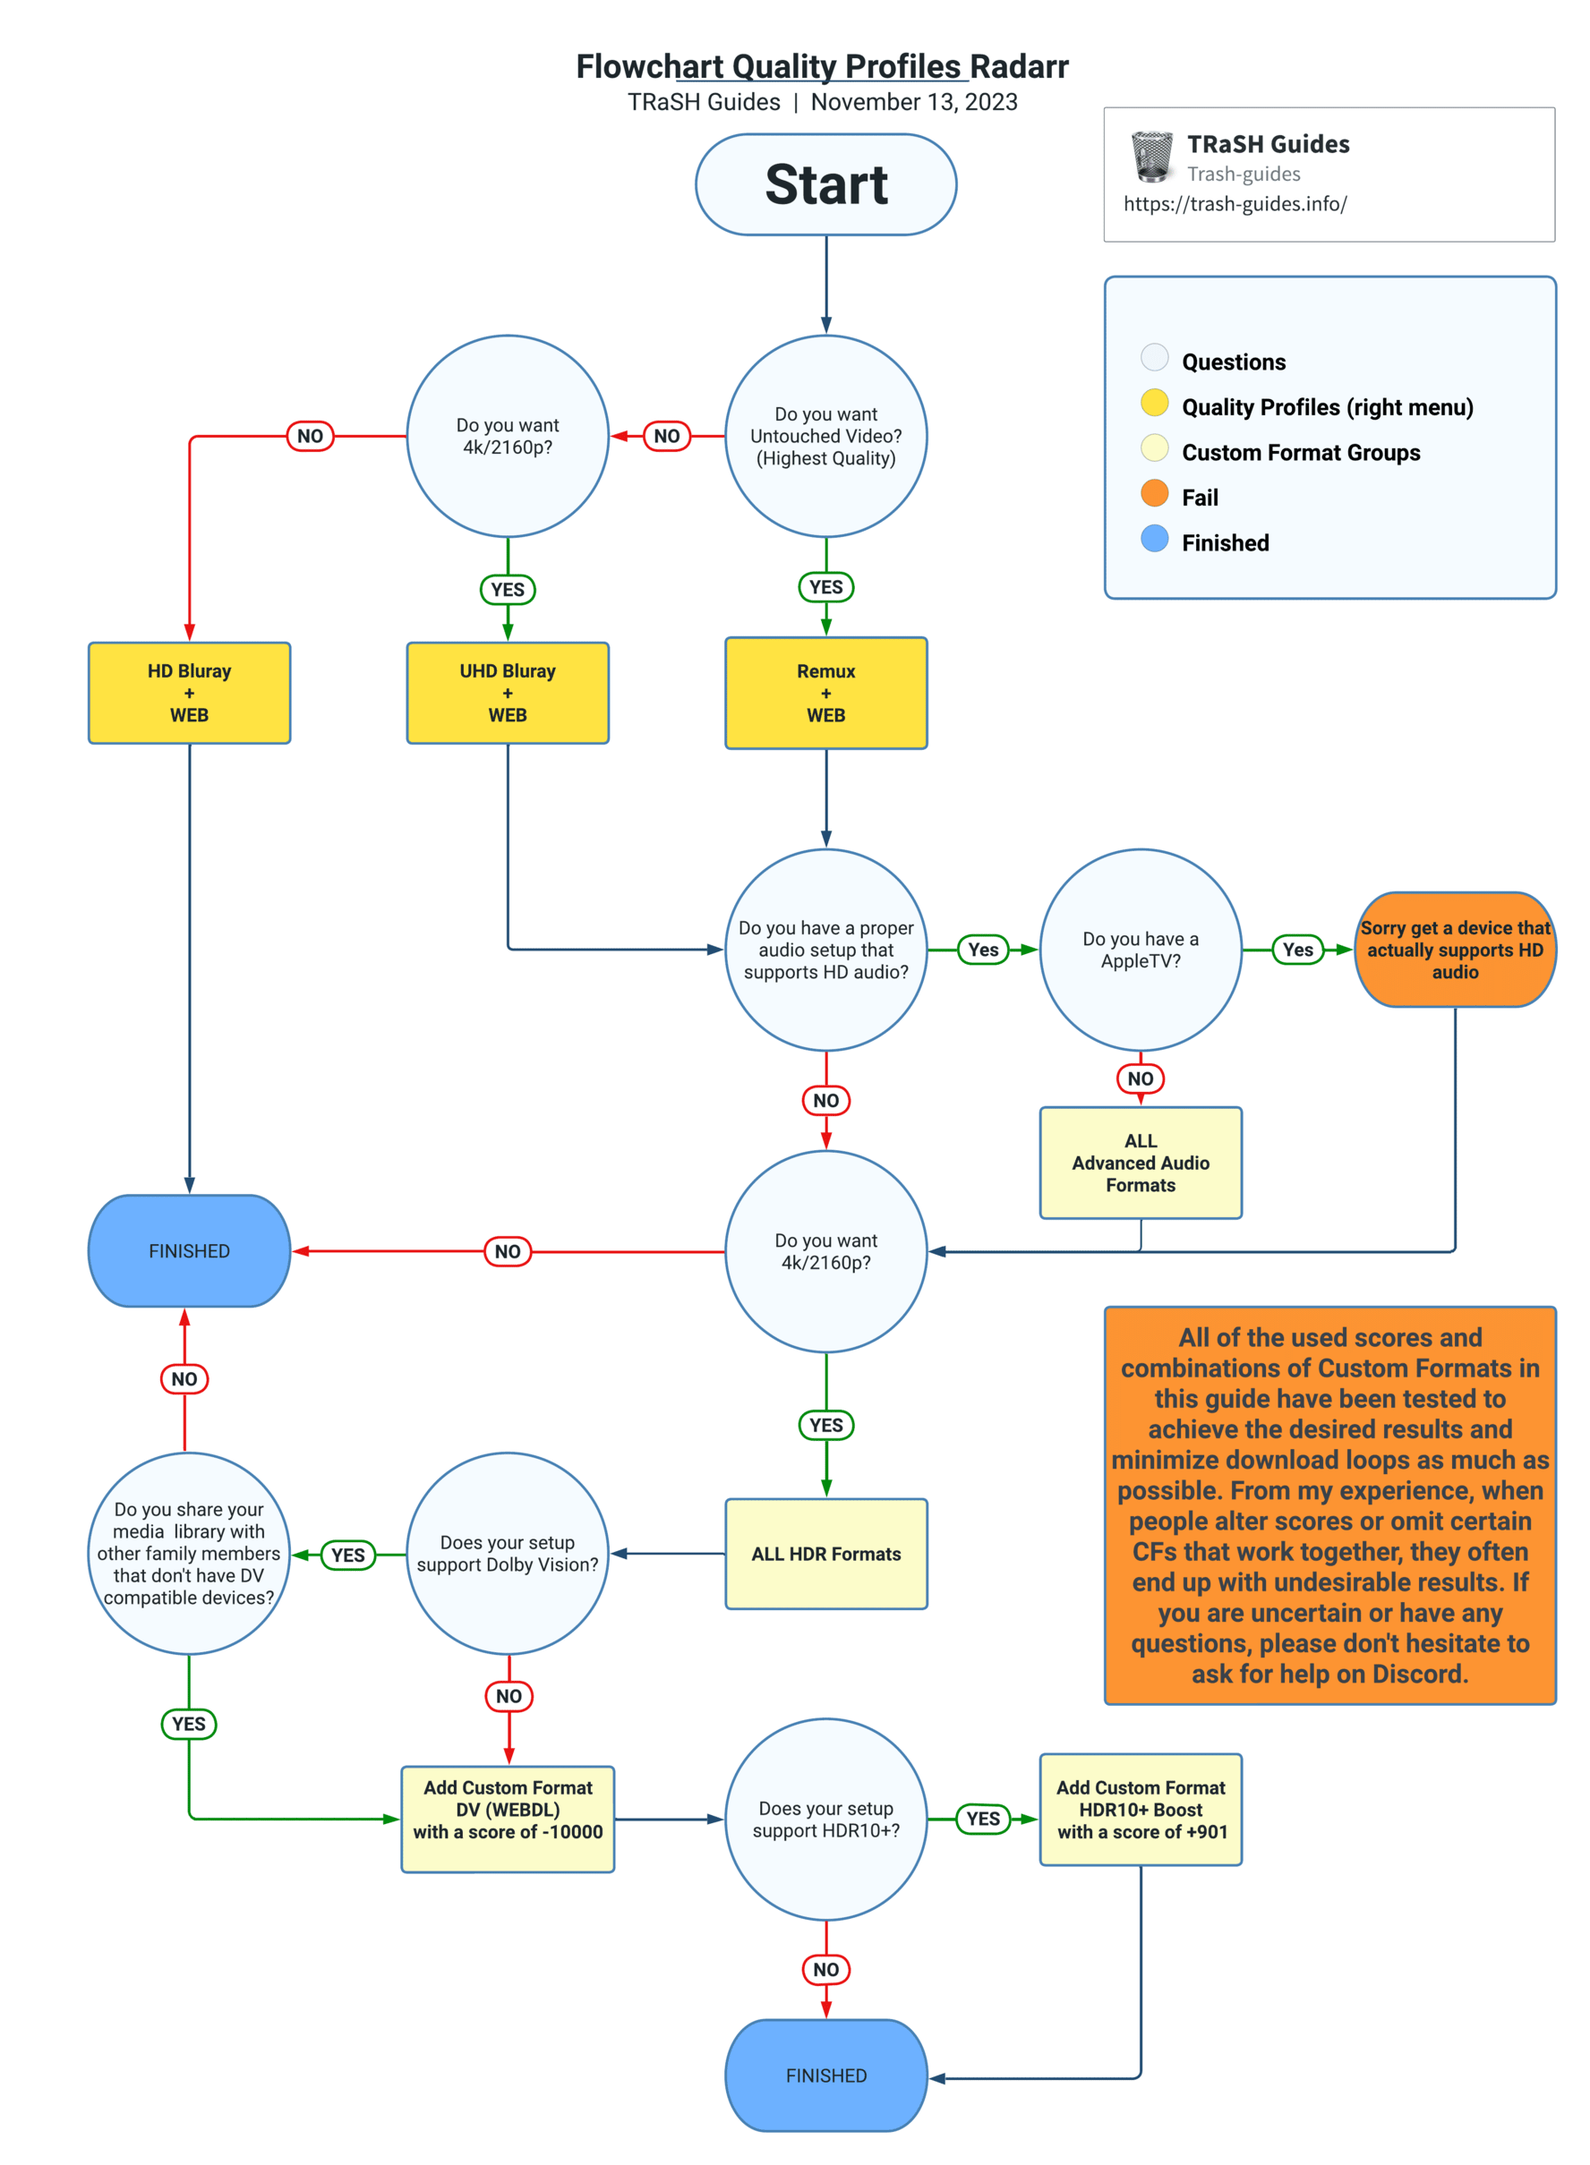
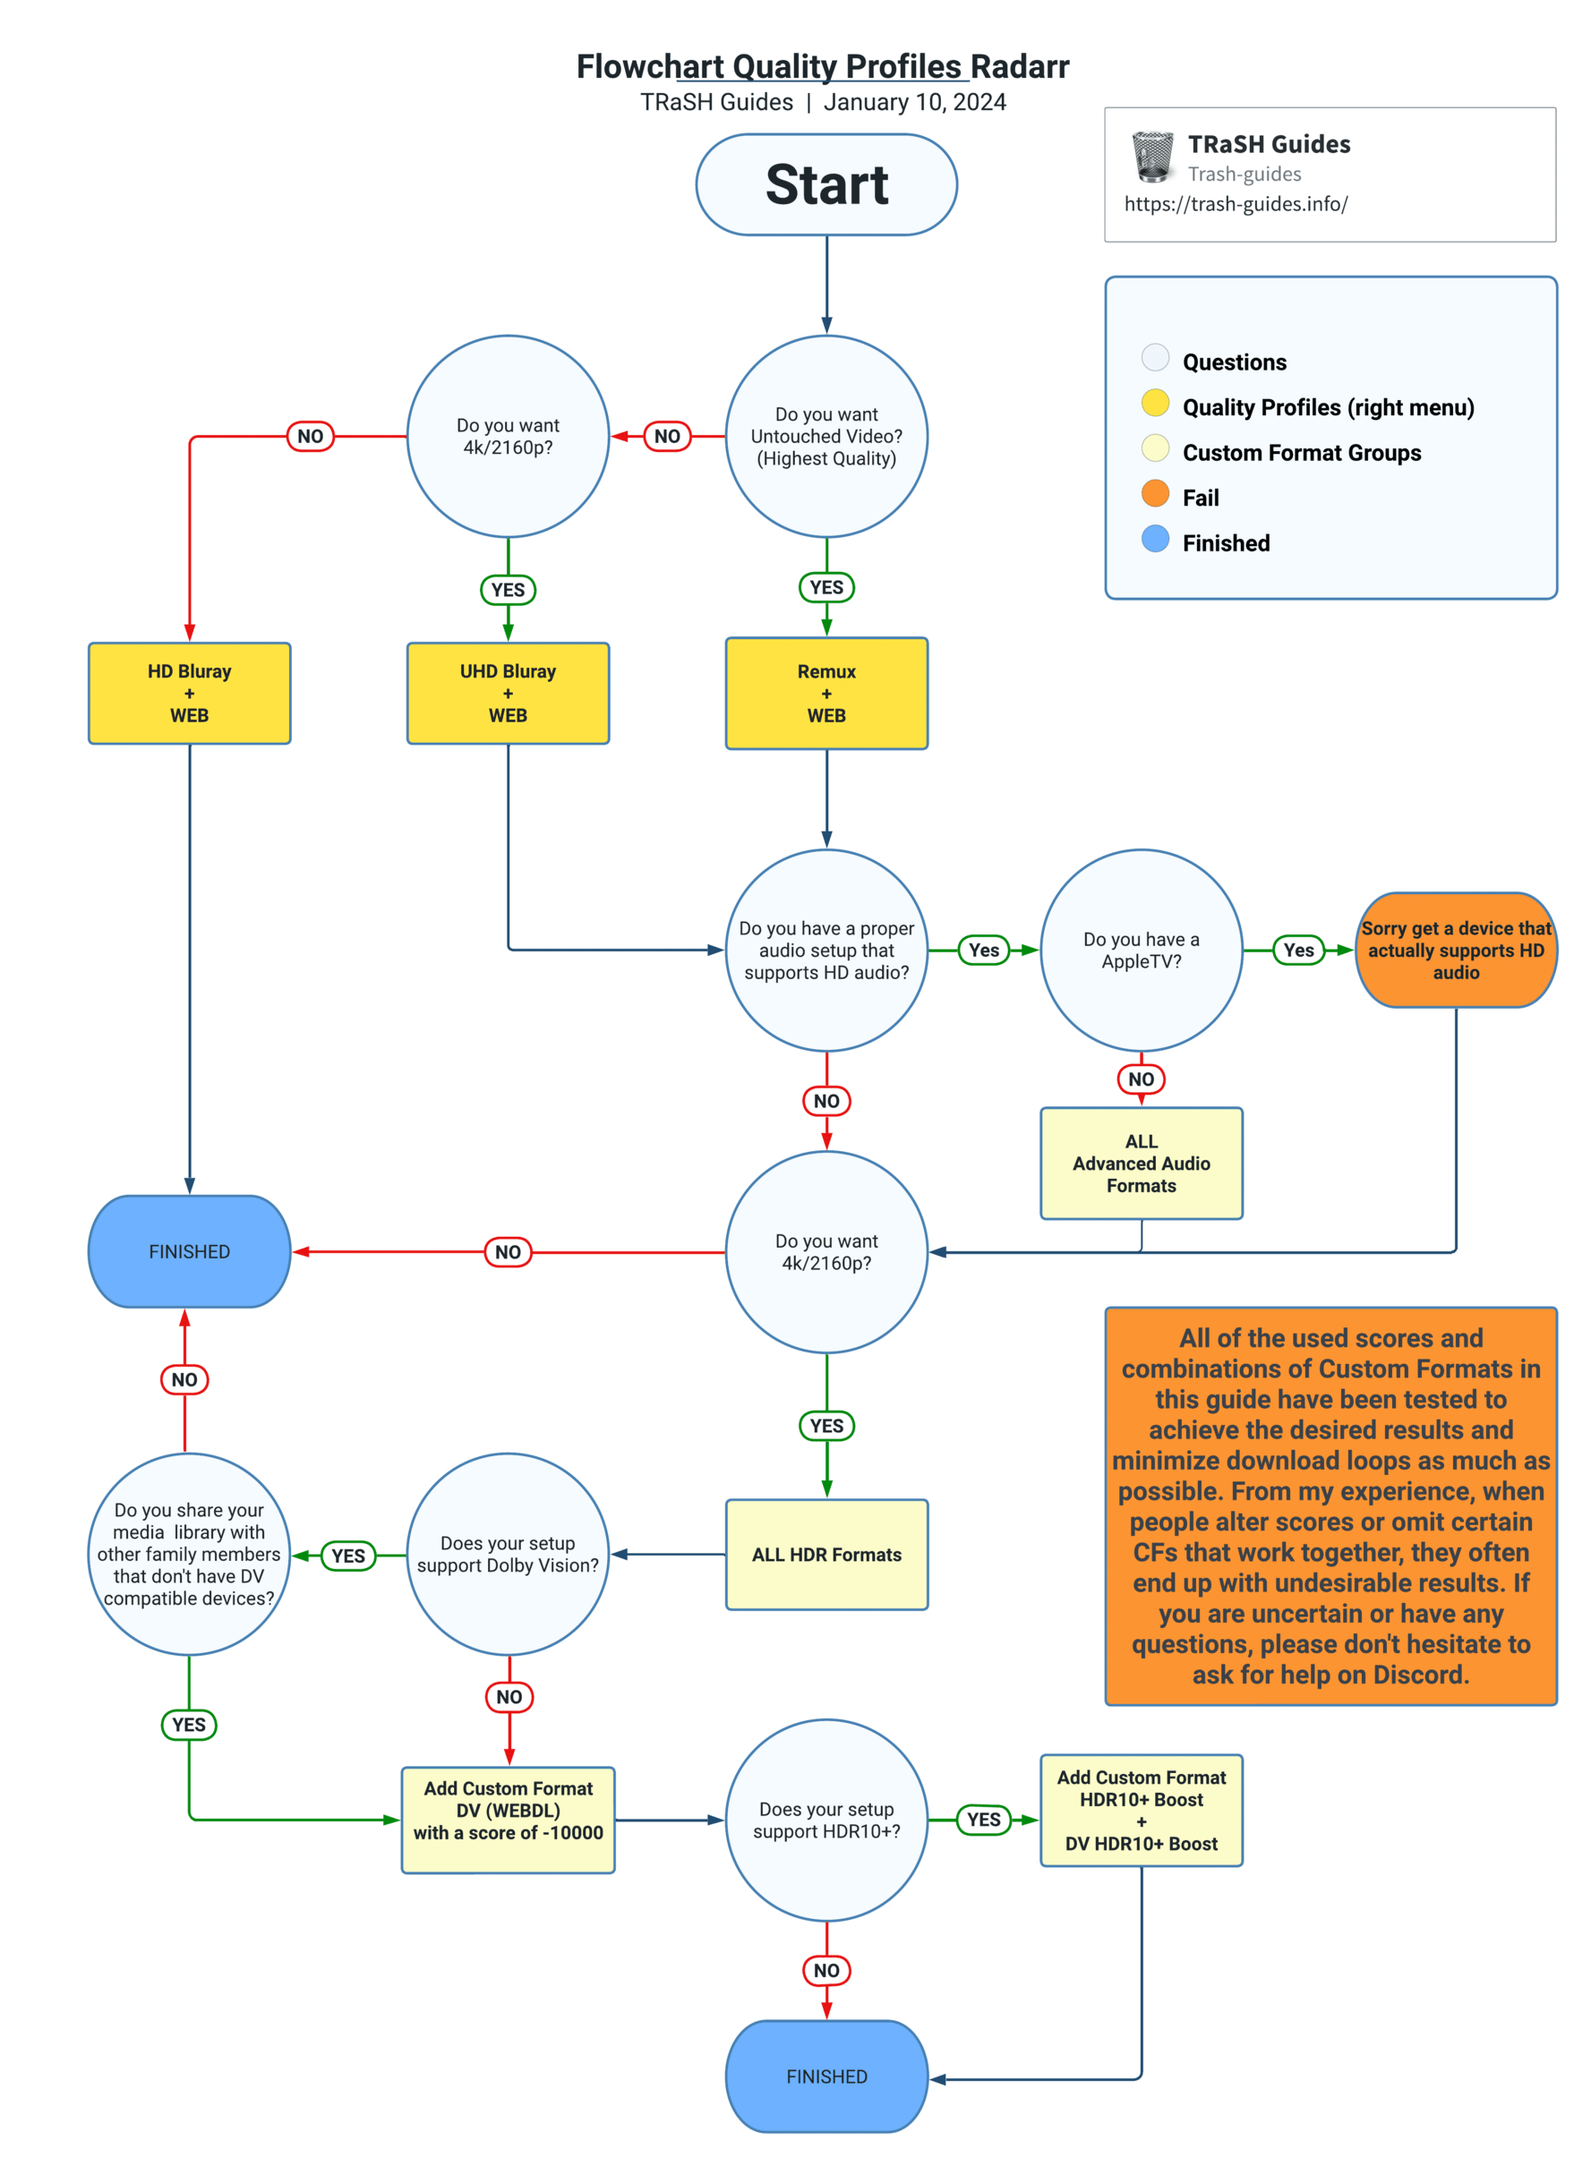
feat(starr): add DV HDR10Plus Boost CF (#1744)

diff --git a/docs/Radarr/Radarr-collection-of-custom-formats.md b/docs/Radarr/Radarr-collection-of-custom-formats.md
@@ -74,25 +74,26 @@ I also made 3 guides related to this one.
 
 ------
 
-| Misc                           | Optional                            | French Audio Version          | French Source Groups                            |
-| ------------------------------ | ----------------------------------- | ----------------------------- | ----------------------------------------------- |
-| [Dutch Groups](#dutch-groups)  | [AV1](#av1)                         | [Multi-French](#multi-french) | [FR Remux Tier 01](#fr-remux-tier-01)           |
-| [FreeLeech](#freeleech)        | [Bad Dual Groups](#bad-dual-groups) | [Multi-Audio](#multi-audio)   | [FR Remux Tier 02](#fr-remux-tier-02)           |
-| [MPEG2](#mpeg2)                | [DV (Disk)](#dv-disk)               | [French Audio](#french-audio) | [FR UHD Bluray Tier 01](#fr-uhd-bluray-tier-01) |
-| [Multi](#multi)                | [DV (WEBDL)](#dv-webdl)             | [VFF](#vff)                   | [FR UHD Bluray Tier 02](#fr-uhd-bluray-tier-02) |
-| [Repack/Proper](#repackproper) | [EVO (no WEBDL)](#evo-no-webdl)     | [VOF](#vof)                   | [FR HD Bluray Tier 01](#fr-hd-bluray-tier-01)   |
-| [Repack2](#repack2)            | [HDR10+ Boost](#hdr10plus-boost)    | [VFI](#vfi)                   | [FR HD Bluray Tier 02](#fr-hd-bluray-tier-02)   |
-| [x264](#x264)                  | [HFR](#hfr)                         | [VF2](#vf2)                   | [FR WEB Tier 01](#fr-web-tier-01)               |
-| [x265](#x265)                  | [Internal](#internal)               | [VFQ](#vfq)                   | [FR WEB Tier 02](#fr-web-tier-02)               |
-|                                | [Line/Mic Dubbed](#linemic-dubbed)  | [VOQ](#voq)                   | [FR Scene Groups](#fr-scene-groups)             |
-|                                | [No-RlsGroup](#no-rlsgroup)         | [VQ](#vq)                     | [FR LQ](#fr-lq)                                 |
-|                                | [Obfuscated](#obfuscated)           | [VFB](#vfb)                   |                                                 |
-|                                | [Retags](#retags)                   | [VOSTFR](#vostfr)             |                                                 |
-|                                | [Scene](#scene)                     | [FanSUB](#fansub)             |                                                 |
-|                                | [SDR (no WEBDL)](#sdr-no-webdl)     | [FastSUB](#fastsub)           |                                                 |
-|                                | [SDR](#sdr)                         |                               |                                                 |
-|                                | [VP9](#vp9)                         |                               |                                                 |
-|                                | [x265 (no HDR/DV)](#x265-no-hdrdv)  |                               |                                                 |
+| Misc                           | Optional                               | French Audio Version          | French Source Groups                            |
+| ------------------------------ | -------------------------------------- | ----------------------------- | ----------------------------------------------- |
+| [Dutch Groups](#dutch-groups)  | [AV1](#av1)                            | [Multi-French](#multi-french) | [FR Remux Tier 01](#fr-remux-tier-01)           |
+| [FreeLeech](#freeleech)        | [Bad Dual Groups](#bad-dual-groups)    | [Multi-Audio](#multi-audio)   | [FR Remux Tier 02](#fr-remux-tier-02)           |
+| [MPEG2](#mpeg2)                | [DV (Disk)](#dv-disk)                  | [French Audio](#french-audio) | [FR UHD Bluray Tier 01](#fr-uhd-bluray-tier-01) |
+| [Multi](#multi)                | [DV (WEBDL)](#dv-webdl)                | [VFF](#vff)                   | [FR UHD Bluray Tier 02](#fr-uhd-bluray-tier-02) |
+| [Repack/Proper](#repackproper) | [DV HDR10+ Boost](#dv-hdr10plus-boost) | [VOF](#vof)                   | [FR HD Bluray Tier 01](#fr-hd-bluray-tier-01)   |
+| [Repack2](#repack2)            | [EVO (no WEBDL)](#evo-no-webdl)        | [VFI](#vfi)                   | [FR HD Bluray Tier 02](#fr-hd-bluray-tier-02)   |
+| [x264](#x264)                  | [HDR10+ Boost](#hdr10plus-boost)       | [VF2](#vf2)                   | [FR WEB Tier 01](#fr-web-tier-01)               |
+| [x265](#x265)                  | [HFR](#hfr)                            | [VFQ](#vfq)                   | [FR WEB Tier 02](#fr-web-tier-02)               |
+|                                | [Internal](#internal)                  | [VOQ](#voq)                   | [FR Scene Groups](#fr-scene-groups)             |
+|                                | [Line/Mic Dubbed](#linemic-dubbed)     | [VQ](#vq)                     | [FR LQ](#fr-lq)                                 |
+|                                | [No-RlsGroup](#no-rlsgroup)            | [VFB](#vfb)                   |                                                 |
+|                                | [Obfuscated](#obfuscated)              | [VOSTFR](#vostfr)             |                                                 |
+|                                | [Retags](#retags)                      | [FanSUB](#fansub)             |                                                 |
+|                                | [Scene](#scene)                        | [FastSUB](#fastsub)           |                                                 |
+|                                | [SDR (no WEBDL)](#sdr-no-webdl)        |                               |                                                 |
+|                                | [SDR](#sdr)                            |                               |                                                 |
+|                                | [VP9](#vp9)                            |                               |                                                 |
+|                                | [x265 (no HDR/DV)](#x265-no-hdrdv)     |                               |                                                 |
 
 ------
 
@@ -1148,12 +1149,28 @@ I also made 3 guides related to this one.
 
 ??? question "HDR10+ Boost - [Click to show/hide]"
 
-    Optional (use this one only if you have a (Samsung) TV that supports HDR10+ and you don't have a Setup that supports DV or you prefer HDR10+.
+    Optional: use this one only if you have a (Samsung) TV that supports HDR10+ and you don't have a Setup that supports DV or you prefer HDR10+.
 
 ??? example "JSON - [Click to show/hide]"
 
     ```json
     [[% filter indent(width=4) %]][[% include 'json/radarr/cf/hdr10plus-boost.json' %]][[% endfilter %]]
+    ```
+
+<sub><sup>[TOP](#index)</sup>
+
+------
+
+### DV HDR10Plus Boost
+
+??? question "DV HDR10+ Boost - [Click to show/hide]"
+
+    Optional: use this one if you want to upgrade from DV HDR10 to DV HDR10+ to support the best of both worlds.
+
+??? example "JSON - [Click to show/hide]"
+
+    ```json
+    [[% filter indent(width=4) %]][[% include 'json/radarr/cf/dv-hdr10plus-boost.json' %]][[% endfilter %]]
     ```
 
 <sub><sup>[TOP](#index)</sup>

diff --git a/docs/Sonarr/sonarr-collection-of-custom-formats.md b/docs/Sonarr/sonarr-collection-of-custom-formats.md
@@ -83,26 +83,25 @@ I also made 3 guides related to this one.
 
 ------
 
-=======
-| Misc                           | Optional                            | French Audio Version          | French Source Groups                          |
-| ------------------------------ | ----------------------------------- | ----------------------------- | --------------------------------------------- |
-| [MPEG2](#mpeg2)                | [AV1](#av1)                         | [Multi-French](#multi-french) | [FR Remux Tier 01](#fr-remux-tier-01)         |
-| [Multi](#multi)                | [Bad Dual Groups](#bad-dual-groups) | [Multi-Audio](#multi-audio)   | [FR HD Bluray Tier 01](#fr-hd-bluray-tier-01) |
-| [Repack v2](#repack-v2)        | [DV (Disk)](#dv-disk)               | [French Audio](#french-audio) | [FR WEB Tier 01](#fr-web-tier-01)             |
-| [Repack v3](#repack-v3)        | [DV (WEBDL)](#dv-webdl)             | [VFF](#vff)                   | [FR WEB Tier 02](#fr-web-tier-02)             |
-| [Repack/Proper](#repackproper) | [HDR10+ Boost](#hdr10plus-boost)    | [VOF](#vof)                   | [FR WEB Tier 03](#fr-web-tier-03)             |
-| [x264](#x264)                  | [HFR](#hfr)                         | [VFI](#vfi)                   | [FR Anime Tier 01](#fr-anime-tier-01)         |
-| [x265](#x265)                  | [Internal](#internal)               | [VF2](#vf2)                   | [FR Anime Tier 02](#fr-anime-tier-02)         |
-|                                | [No-RlsGroup](#no-rlsgroup)         | [VFQ](#vfq)                   | [FR Anime Tier 03](#fr-anime-tier-03)         |
-|                                | [Obfuscated](#obfuscated)           | [VOQ](#voq)                   | [FR Anime FanSub](#fr-anime-fansub)           |
-|                                | [Retags](#retags)                   | [VQ](#vq)                     | [FR Scene Groups](#fr-scene-groups)           |
-|                                | [Scene](#scene)                     | [VFB](#vfb)                   | [FR LQ](#fr-lq)                               |
-|                                | [SDR (no WEBDL)](#sdr-no-webdl)     | [VOSTFR](#vostfr)             |                                               |
-|                                | [SDR](#sdr)                         | [FanSUB](#fansub)             |                                               |
-|                                | [Season Packs](#season-pack)        | [FastSUB](#fastsub)           |                                               |
-|                                | [VP9](#vp9)                         |                               |                                               |
-|                                | [x265 (no HDR/DV)](#x265-no-hdrdv)  |                               |                                               |
-|                                | [x265 (no HDR/DV)](#x265-no-hdrdv)  |                               |                                               |
+| Misc                           | Optional                               | French Audio Version          | French Source Groups                          |
+| ------------------------------ | -------------------------------------- | ----------------------------- | --------------------------------------------- |
+| [MPEG2](#mpeg2)                | [AV1](#av1)                            | [Multi-French](#multi-french) | [FR Remux Tier 01](#fr-remux-tier-01)         |
+| [Multi](#multi)                | [Bad Dual Groups](#bad-dual-groups)    | [Multi-Audio](#multi-audio)   | [FR HD Bluray Tier 01](#fr-hd-bluray-tier-01) |
+| [Repack v2](#repack-v2)        | [DV (Disk)](#dv-disk)                  | [French Audio](#french-audio) | [FR WEB Tier 01](#fr-web-tier-01)             |
+| [Repack v3](#repack-v3)        | [DV (WEBDL)](#dv-webdl)                | [VFF](#vff)                   | [FR WEB Tier 02](#fr-web-tier-02)             |
+| [Repack/Proper](#repackproper) | [DV HDR10+ Boost](#dv-hdr10plus-boost) | [VOF](#vof)                   | [FR WEB Tier 03](#fr-web-tier-03)             |
+| [x264](#x264)                  | [HDR10+ Boost](#hdr10plus-boost)       | [VFI](#vfi)                   | [FR Anime Tier 01](#fr-anime-tier-01)         |
+| [x265](#x265)                  | [HFR](#hfr)                            | [VF2](#vf2)                   | [FR Anime Tier 02](#fr-anime-tier-02)         |
+|                                | [Internal](#internal)                  | [VFQ](#vfq)                   | [FR Anime Tier 03](#fr-anime-tier-03)         |
+|                                | [No-RlsGroup](#no-rlsgroup)            | [VOQ](#voq)                   | [FR Anime FanSub](#fr-anime-fansub)           |
+|                                | [Obfuscated](#obfuscated)              | [VQ](#vq)                     | [FR Scene Groups](#fr-scene-groups)           |
+|                                | [Retags](#retags)                      | [VFB](#vfb)                   | [FR LQ](#fr-lq)                               |
+|                                | [Scene](#scene)                        | [VOSTFR](#vostfr)             |                                               |
+|                                | [SDR (no WEBDL)](#sdr-no-webdl)        | [FanSUB](#fansub)             |                                               |
+|                                | [SDR](#sdr)                            | [FastSUB](#fastsub)           |                                               |
+|                                | [Season Packs](#season-pack)           |                               |                                               |
+|                                | [VP9](#vp9)                            |                               |                                               |
+|                                | [x265 (no HDR/DV)](#x265-no-hdrdv)     |                               |                                               |
 
 ------
 
@@ -1060,6 +1059,22 @@ I also made 3 guides related to this one.
 
     ```json
     [[% filter indent(width=4) %]][[% include 'json/sonarr/cf/hdr10plus-boost.json' %]][[% endfilter %]]
+    ```
+
+<sub><sup>[TOP](#index)</sup>
+
+------
+
+### DV HDR10Plus Boost
+
+??? question "DV HDR10+ Boost - [Click to show/hide]"
+
+    Optional: use this one if you want to upgrade from DV HDR10 to DV HDR10+ to support the best of both worlds.
+
+??? example "JSON - [Click to show/hide]"
+
+    ```json
+    [[% filter indent(width=4) %]][[% include 'json/sonarr/cf/dv-hdr10plus-boost.json' %]][[% endfilter %]]
     ```
 
 <sub><sup>[TOP](#index)</sup>
